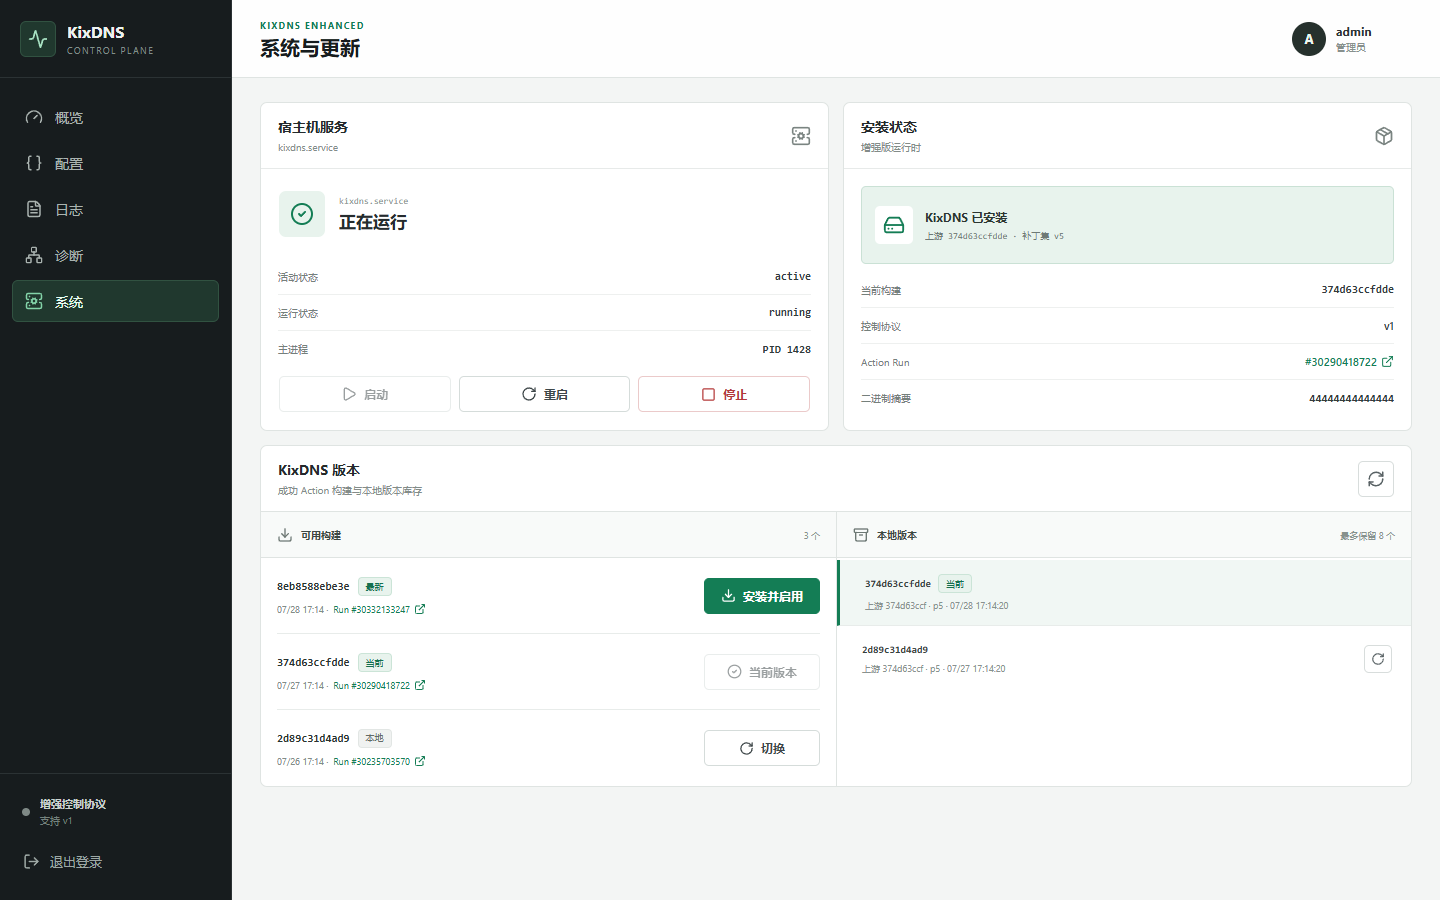
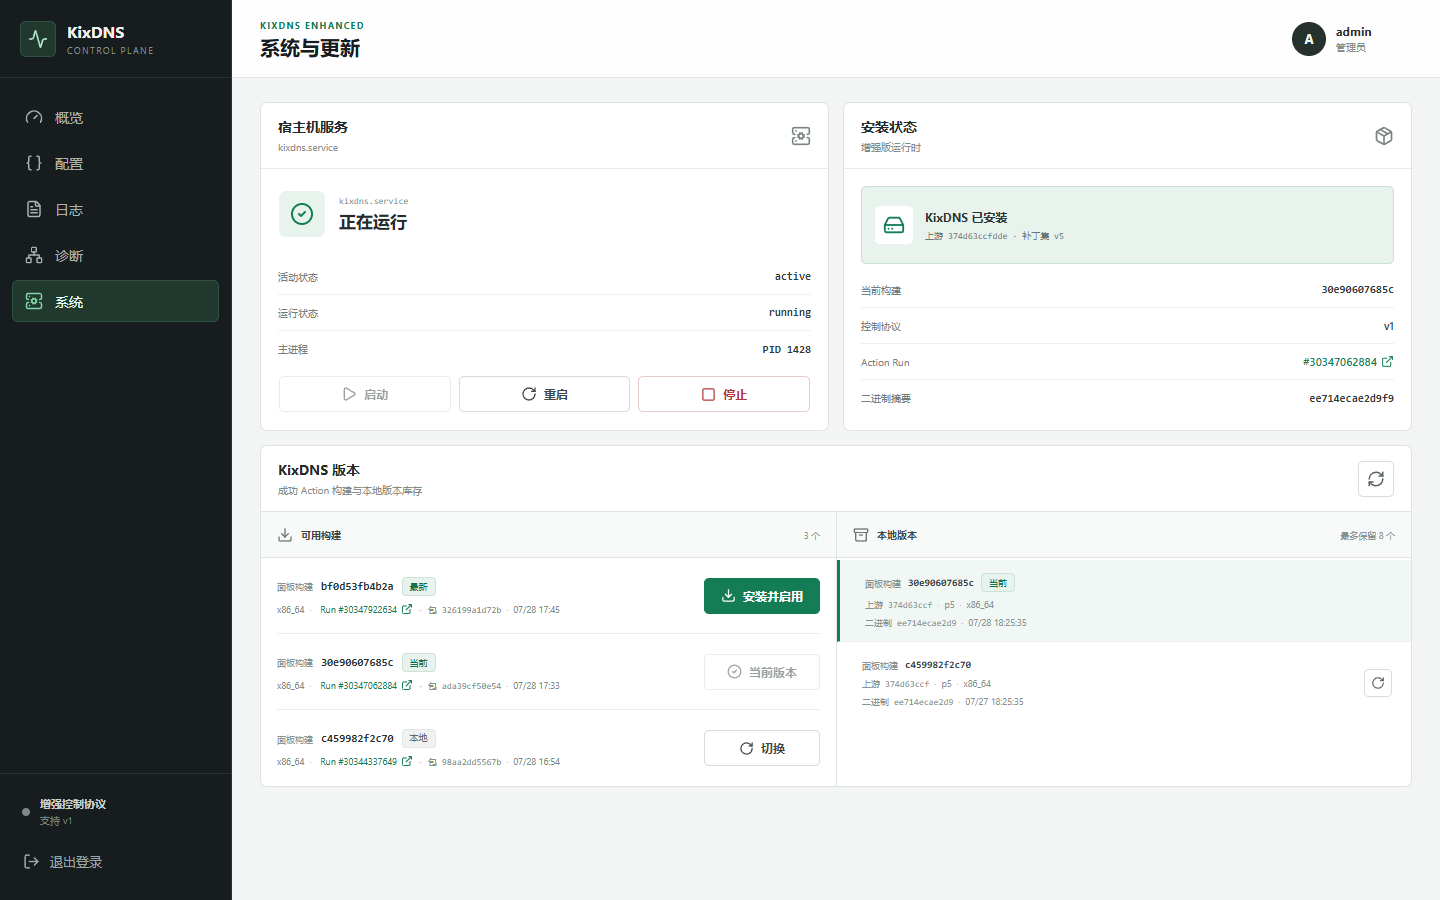
feat(demo): distinguish real enhanced build packages

diff --git a/web/src/api/mock.ts b/web/src/api/mock.ts
@@ -8,6 +8,7 @@ import type {
   LogsResponse,
   Overview,
   KixdnsVersionCatalog,
+  RemoteKixdnsVersion,
   ServiceStatus,
   UpdateInfo,
   ValidationResult,
@@ -109,10 +110,43 @@ const versions: ConfigVersions = {
 
 let serviceRunning = true
 let updateAvailable = true
-const demoRemoteVersions = [
-  { commit: '8eb8588ebe3e7965cf40ca161c05ac400ac2f5e5', run_id: 30332133247, created_at: new Date(now * 1000).toISOString(), run_url: '#', artifact: 'kixdns-enhanced-linux-x86_64', download_url: '#' },
-  { commit: '374d63ccfdde6d281d3c7b5de9c689bfb0b0fb25', run_id: 30290418722, created_at: new Date((now - 86400) * 1000).toISOString(), run_url: '#', artifact: 'kixdns-enhanced-linux-x86_64', download_url: '#' },
-  { commit: '2d89c31d4ad9d252155215d78af8c9c128112233', run_id: 30235703570, created_at: new Date((now - 172800) * 1000).toISOString(), run_url: '#', artifact: 'kixdns-enhanced-linux-x86_64', download_url: '#' },
+const upstreamCommit = '374d63ccfdde6d281d3c7b5de9c689bfb0b0fb25'
+const artifactName = 'kixdns-enhanced-linux-x86_64'
[1 lines of base64/hex data omitted]
+const demoRemoteVersions: RemoteKixdnsVersion[] = [
+  {
+    commit: 'bf0d53fb4b2a0434fa1b35ce1a76f75085137927',
+    run_id: 30347922634,
+    created_at: '2026-07-28T09:45:22Z',
+    run_url: 'https://github.com/tuoro/kixdns-panel/actions/runs/30347922634',
+    artifact: artifactName,
+    artifact_digest: 'sha256:326199a1d72bf5430b06f945ebc9b60b3933139215b14ff24d770538cdf979be',
+    download_url: `https://nightly.link/tuoro/kixdns-panel/actions/runs/30347922634/${artifactName}.zip`,
+    installed: false,
+    active: false,
+  },
+  {
+    commit: '30e90607685c3a780e2b1005457ff13c57f7a5f7',
+    run_id: 30347062884,
+    created_at: '2026-07-28T09:33:09Z',
+    run_url: 'https://github.com/tuoro/kixdns-panel/actions/runs/30347062884',
+    artifact: artifactName,
+    artifact_digest: 'sha256:ada39cf50e54d4d095e56aa379cb5e3e8b88b5b4185d4428c2a3900242b26db2',
+    download_url: `https://nightly.link/tuoro/kixdns-panel/actions/runs/30347062884/${artifactName}.zip`,
+    installed: false,
+    active: false,
+  },
+  {
+    commit: 'c459982f2c705e4ef81069fec38882324c5faf0d',
+    run_id: 30344337649,
+    created_at: '2026-07-28T08:54:55Z',
+    run_url: 'https://github.com/tuoro/kixdns-panel/actions/runs/30344337649',
+    artifact: artifactName,
+    artifact_digest: 'sha256:98aa2dd5567b1fd9516af058c7b9900a45d615438e64543d0010b995078eb1bf',
+    download_url: `https://nightly.link/tuoro/kixdns-panel/actions/runs/30344337649/${artifactName}.zip`,
+    installed: false,
+    active: false,
+  },
 ]
 let activeKixdnsCommit = demoRemoteVersions[1].commit
 const installedKixdnsCommits = new Set([activeKixdnsCommit, demoRemoteVersions[2].commit])
@@ -133,13 +167,13 @@ function demoVersionCatalog(): KixdnsVersionCatalog {
         run_id: remote?.run_id ?? null,
         created_at: remote?.created_at ?? null,
         run_url: remote?.run_url ?? null,
-        artifact: remote?.artifact ?? 'kixdns-enhanced-linux-x86_64',
-        artifact_digest: `sha256:${String(index + 1).repeat(64)}`.slice(0, 71),
+        artifact: remote?.artifact ?? artifactName,
+        artifact_digest: remote?.artifact_digest ?? null,
         upstream_repository: 'olicesx/kixdns',
-        upstream_commit: '374d63ccfdde6d281d3c7b5de9c689bfb0b0fb25',
+        upstream_commit: upstreamCommit,
         patchset: 5,
         control_protocol: 1,
-        binary_sha256: String(index + 4).repeat(64),
+        binary_sha256: binarySha256,
         installed_at: now - index * 86400,
         active: commit === activeKixdnsCommit,
       }
@@ -208,7 +242,8 @@ export async function mockRequest<T>(path: string, init?: RequestInit): Promise<
   }
   if (path === '/api/v1/updates/apply') updateAvailable = false
   if (path === '/api/v1/updates' || path === '/api/v1/updates/apply') {
-    return { installed_commit: updateAvailable ? 'faf09f8' : '2d89c31d4ad9d252155215d78af8c9c128112233', latest_commit: '2d89c31d4ad9d252155215d78af8c9c128112233', run_id: 30235703570, created_at: new Date().toISOString(), run_url: '#', artifact: 'kixdns-enhanced-linux-x86_64', artifact_digest: `sha256:${'a'.repeat(64)}`, download_url: '#', available: updateAvailable } as UpdateInfo as T
+    const latest = demoRemoteVersions[0]
+    return { installed_commit: updateAvailable ? activeKixdnsCommit : latest.commit, latest_commit: latest.commit, run_id: latest.run_id, created_at: latest.created_at, run_url: latest.run_url, artifact: latest.artifact, artifact_digest: latest.artifact_digest, download_url: latest.download_url, available: updateAvailable } as UpdateInfo as T
   }
   throw new Error(`未实现的演示接口：${method} ${path}`)
 }

diff --git a/web/src/views/SystemView.vue b/web/src/views/SystemView.vue
@@ -55,6 +55,14 @@ function buildTime(value: string | null): string {
   }).format(new Date(value))
 }
 
+function artifactArchitecture(artifact: string): string {
+  return artifact.match(/-(x86_64|aarch64)$/)?.[1] ?? artifact
+}
+
+function artifactDigest(digest: string | null | undefined): string {
+  return shortHash(digest?.replace(/^sha256:/, ''), 12)
+}
+
 function loadService(silent = false): Promise<void> {
   if (pendingService) return pendingService
   loadingService.value = true
@@ -196,7 +204,10 @@ onMounted(refreshAll)
           <div class="version-section-title"><div><Download :size="16" /><strong>可用构建</strong></div><span>{{ catalog.remote_versions.length }} 个</span></div>
           <div class="version-list">
             <article v-for="(version, index) in catalog.remote_versions" :key="version.commit" class="version-row">
-              <div class="version-identity"><div><code>{{ shortHash(version.commit, 12) }}</code><span v-if="index === 0" class="tag tag--success">最新</span><span v-else-if="version.active" class="tag tag--success">当前</span><span v-else-if="version.installed" class="tag tag--muted">本地</span></div><p>{{ buildTime(version.created_at) }} · <a :href="version.run_url" target="_blank" rel="noopener noreferrer">Run #{{ version.run_id }}<ExternalLink :size="12" /></a></p></div>
+              <div class="version-identity">
+                <div><span class="identity-label">面板构建</span><code>{{ shortHash(version.commit, 12) }}</code><span v-if="index === 0" class="tag tag--success">最新</span><span v-else-if="version.active" class="tag tag--success">当前</span><span v-else-if="version.installed" class="tag tag--muted">本地</span></div>
+                <p><span>{{ artifactArchitecture(version.artifact) }}</span><a :href="version.run_url" target="_blank" rel="noopener noreferrer">Run #{{ version.run_id }}<ExternalLink :size="12" /></a><span class="mono">包 {{ artifactDigest(version.artifact_digest) }}</span><span>{{ buildTime(version.created_at) }}</span></p>
+              </div>
               <button v-if="version.active" class="button button--secondary version-action" type="button" disabled><CircleCheck :size="15" />当前版本</button>
               <button v-else-if="version.installed" class="button button--secondary version-action" type="button" :disabled="versionAction !== null" @click="activateVersion(version)"><RotateCw :size="15" :class="{ spin: actionBusy(version.commit) }" />{{ actionBusy(version.commit) ? '切换中' : '切换' }}</button>
               <button v-else class="button button--primary version-action" type="button" :disabled="versionAction !== null" @click="installVersion(version)"><Download :size="15" />{{ actionBusy(version.commit) ? '安装中' : '安装并启用' }}</button>
@@ -209,8 +220,10 @@ onMounted(refreshAll)
           <div class="version-section-title"><div><Archive :size="16" /><strong>本地版本</strong></div><span>最多保留 8 个</span></div>
           <div class="local-version-list">
             <article v-for="version in catalog.installed_versions" :key="version.commit" :class="version.active ? 'local-version local-version--active' : 'local-version'">
-              <div><code>{{ shortHash(version.commit, 12) }}</code><span v-if="version.active" class="tag tag--success">当前</span></div>
-              <p>{{ version.upstream_commit ? `上游 ${shortHash(version.upstream_commit, 9)} · p${version.patchset}` : '构建身份未记录' }} · {{ formatDate(version.installed_at) }}</p>
+              <div><span class="identity-label">面板构建</span><code>{{ shortHash(version.commit, 12) }}</code><span v-if="version.active" class="tag tag--success">当前</span></div>
+              <p v-if="version.upstream_commit"><span class="mono">上游 {{ shortHash(version.upstream_commit, 9) }}</span><span>p{{ version.patchset }}</span><span>{{ artifactArchitecture(version.artifact) }}</span></p>
+              <p v-else>构建身份未记录</p>
+              <p><span class="mono">二进制 {{ shortHash(version.binary_sha256, 12) }}</span><span>{{ formatDate(version.installed_at) }}</span></p>
               <button v-if="!version.active" class="icon-button icon-button--small" type="button" title="切换到此版本" :disabled="versionAction !== null" @click="activateVersion(version)"><RotateCw :size="14" :class="{ spin: actionBusy(version.commit) }" /></button>
             </article>
             <div v-if="catalog.installed_versions.length === 0" class="version-empty">尚无本地版本</div>

diff --git a/web/src/styles.css b/web/src/styles.css
@@ -396,17 +396,19 @@ td { padding: 12px 16px; color: #4e5759; border-top: 1px solid #ecefee; white-sp
 .version-row:last-child { border-bottom: 0; }
 .version-identity { min-width: 0; display: grid; gap: 7px; }
 .version-identity > div { min-width: 0; display: flex; align-items: center; gap: 8px; }
+.identity-label { flex: 0 0 auto; color: #8a9490; font-size: 9px; }
 .version-identity code { overflow: hidden; color: #293330; font-size: 11px; font-weight: 700; text-overflow: ellipsis; }
 .version-identity p { display: flex; align-items: center; flex-wrap: wrap; gap: 5px; color: #828c88; font-size: 9px; }
+.version-identity p > * + *::before, .local-version p > * + *::before { margin-right: 5px; color: #bdc4c1; content: "·"; }
 .version-action { min-width: 116px; }
 .local-version-list { padding: 2px 15px 10px; }
-.local-version { position: relative; min-height: 66px; display: grid; align-content: center; gap: 6px; padding: 10px 36px 10px 10px; border-bottom: 1px solid #e8ecea; }
+.local-version { position: relative; min-height: 82px; display: grid; align-content: center; gap: 6px; padding: 10px 36px 10px 10px; border-bottom: 1px solid #e8ecea; }
 .local-version:last-child { border-bottom: 0; }
 .local-version--active { margin-inline: -15px; padding-inline: 25px 51px; background: #f1f7f4; border-left: 3px solid var(--green); }
 .local-version > div { min-width: 0; display: flex; align-items: center; gap: 7px; }
 .local-version code { overflow: hidden; color: #36413d; font-size: 10px; font-weight: 700; text-overflow: ellipsis; }
-.local-version p { color: #89928f; font-size: 9px; }
-.local-version > .icon-button { position: absolute; top: 19px; right: 4px; }
+.local-version p { display: flex; align-items: center; flex-wrap: wrap; gap: 5px; color: #89928f; font-size: 9px; }
+.local-version > .icon-button { position: absolute; top: 27px; right: 4px; }
 .local-version--active > .icon-button { right: 19px; }
 .version-empty { min-height: 112px; display: grid; place-items: center; color: #929b98; font-size: 10px; text-align: center; }
 

diff --git a/web/src/api/mock.test.ts b/web/src/api/mock.test.ts
@@ -38,4 +38,22 @@ describe('演示 API', () => {
     const switched = await mockRequest<KixdnsVersionCatalog>('/api/v1/kixdns/versions')
     expect(switched.active_commit).toBe(previous)
   })
+
+  it('用真实构建身份区分同一上游的不同包', async () => {
+    const catalog = await mockRequest<KixdnsVersionCatalog>('/api/v1/kixdns/versions')
+    expect(catalog.remote_versions.map((version) => version.run_id)).toEqual([
+      30347922634,
+      30347062884,
+      30344337649,
+    ])
+    expect(new Set(catalog.remote_versions.map((version) => version.commit)).size).toBe(3)
+    expect(catalog.remote_versions.every((version) => /^sha256:[a-f0-9]{64}$/.test(version.artifact_digest))).toBe(true)
+    expect(catalog.installed_versions.every((version) => version.commit !== version.upstream_commit)).toBe(true)
+    expect(new Set(catalog.installed_versions.map((version) => version.upstream_commit))).toEqual(new Set([
+      '374d63ccfdde6d281d3c7b5de9c689bfb0b0fb25',
+    ]))
+    expect(new Set(catalog.installed_versions.map((version) => version.binary_sha256))).toEqual(new Set([
[1 lines of base64/hex data omitted]
+    ]))
+  })
 })
